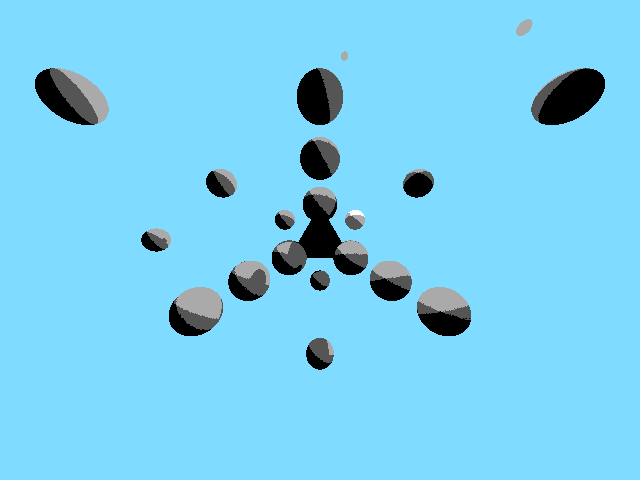
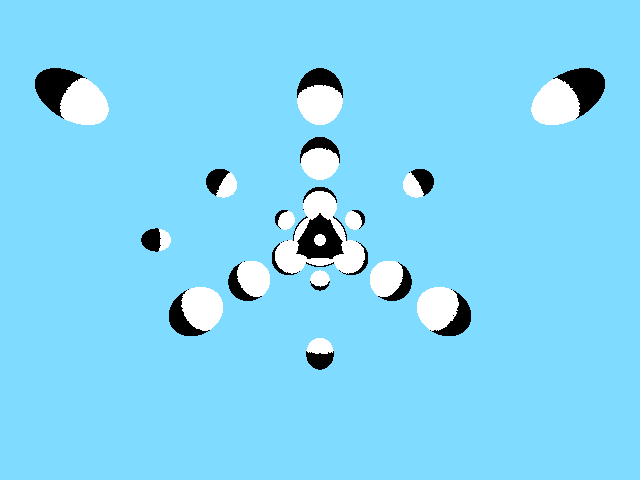
lightproblems to solve

diff --git a/src/SceneGraph.cpp b/src/SceneGraph.cpp
@@ -29,9 +29,10 @@ SceneGraph::SceneGraph(){
 	backgroundColor = myUtil::color(127.0f,219.0f,255.0f);
 	EAmbient = myUtil::color(200,100,50);
 
-	addLightSource(Light(myUtil::PosHom(2,4,-3), CVector<float>(4,1), false, myUtil::color(255,255,0)));
-	addLightSource(Light(myUtil::PosHom(-2,4,-3), CVector<float>(4,1), false, myUtil::color(255,255,0)));
-	addLightSource(Light(myUtil::PosHom(1,1,0), CVector<float>(4,1), false, myUtil::color(255,255,0)));
+//	addLightSource(Light(myUtil::PosHom(2,4,-3), CVector<float>(4,1), false, myUtil::color(255,255,0)));
+//	addLightSource(Light(myUtil::PosHom(-2,4,-3), CVector<float>(4,1), false, myUtil::color(255,255,0)));
+	addLightSource(Light(myUtil::PosHom(1,1,1), CVector<float>(4,1), false, myUtil::color(255,255,0)));
+//	addLightSource(Light(myUtil::PosHom(1,1,0), myUtil::PosHom(1,1,1,0), true, myUtil::color(255,255,0)));
 
 	intenseAmbient = myUtil::color(100,100,100);
 	intenseDiffuse = myUtil::color(100,100,100);
@@ -63,8 +64,8 @@ SceneGraph::SceneGraph(){
 	{CVector<float> pos = myUtil::PosHom(0,0,0);
 //	 pos = inverseCameraMatrix * pos;
 	 CVector<float> col = myUtil::color(255, 255, 255);
-	 Sphere* s = new Sphere(0.4, pos, col);
-	 //objects.push_back(s);
+	 Sphere* s = new Sphere(0.7, pos, col);
+	 objects.push_back(s);
 	 }
 	for(int i = 1; i < 4; i++){
 		Sphere* s;
@@ -103,7 +104,7 @@ SceneGraph::SceneGraph(){
 		Sphere* s = new Sphere(0.2, pos, col);
 		objects.push_back(s);}
 
-		Triangle* tr = new Triangle(myUtil::PosHom(1,0,0), myUtil::PosHom(0,1,0), myUtil::PosHom(0,0,1), myUtil::PosHom(1,1,1), myUtil::color(255,255,0));
+		Triangle* tr = new Triangle(myUtil::PosHom(1,0,0), myUtil::PosHom(0,1,0), myUtil::PosHom(0,0,1), myUtil::PosHom(-1,-1,-1), myUtil::color(255,255,0));
 		objects.push_back(tr);
 	}
 }
@@ -258,19 +259,30 @@ CVector<float> SceneGraph::castRay(CVector<float> origin, CVector<float> directi
 	if(hit){
 		CVector<float> col(3,0);
 		for(int i = 0; i < lightSources.size(); i++){
-			CVector<float> lightDir = lightSources[i].position - bestCollisionPoint;
-			float dist = myUtil::homogenNorm(lightDir);
-			lightDir = myUtil::normalize(lightDir);
-
-			//abnahme der helligkeit mit der distanz
 			CVector<float> EDiffuse = lightSources[i].IDiffuse;
-			if(!(lightSources[i].isDirectionalLight)&&dist != 0)
-				EDiffuse *= (1.0/dist*dist);
 			CVector<float> ESpecular = lightSources[i].ISpecular;
-			if(!(lightSources[i].isDirectionalLight)&&dist != 0)
-				ESpecular *= (1.0/dist*dist);
+			CVector<float> lightDir;
 
-			col += Phong(bestNormal,lightDir,lightVisible(lightSources[i].position,bestCollisionPoint), direction, EDiffuse, ESpecular, n);
+			if(lightSources.at(i).isDirectionalLight){
+				//directional light
+				lightDir = lightSources[i].direction;
+				lightDir = myUtil::normalize(lightDir);
+				col += Phong(bestNormal,lightDir,lightVisible(bestCollisionPoint, lightSources[i].direction, numeric_limits<float>::max()), direction, EDiffuse, ESpecular, n);
+			}else{
+				//point light
+				lightDir = lightSources[i].position - bestCollisionPoint;
+
+				//abnahme der helligkeit mit der distanz
+				float dist = myUtil::homogenNorm(lightDir);
+				if(dist != 0)
+					EDiffuse *= (1.0/dist*dist);
+				if(dist != 0)
+					ESpecular *= (1.0/dist*dist);
+				lightDir = myUtil::normalize(lightDir);
+				col += Phong(bestNormal,lightDir,lightVisible(bestCollisionPoint, lightDir, dist), direction, EDiffuse, ESpecular, n);
+			}
+
+
 		}
 		col * (1.0f/lightSources.size());
 		bestColor = myUtil::elementWiseMulti(bestColor,EAmbient);
@@ -280,20 +292,23 @@ CVector<float> SceneGraph::castRay(CVector<float> origin, CVector<float> directi
 	return bestColor;
 }
 
-bool SceneGraph::lightVisible(CVector<float> light, CVector<float> point){
+bool SceneGraph::lightVisible(CVector<float> point, CVector<float> lightDir, float distToLight){
+//	if(directionalLight)
+//		return true;
 	CVector<float> bestColor = this->backgroundColor;
 	CVector<float> normal;
 	CVector<float> collisionPoint;
 //	CVector<float> bestNormal;
 //	CVector<float> bestCollisionPoint;
-	float t = myUtil::homogenNorm(light - point);//std::numeric_limits<float>::max();
+	float t = distToLight;
 //	cout << "t " << t << endl;
 //	bool hit = false;
 //	cout << " pldir " << point << light << myUtil::normalize(light-point) << endl;
 	for(int i = 0; i < objects.size(); i++){
 		bool collided = false;
 		float distance = myUtil::epsi;
-		CVector<float> color = objects[i]->collision(point, myUtil::normalize(light-point), &collided, &distance, &collisionPoint, &normal, true);
+		CVector<float> color;
+		color = objects[i]->collision(point, myUtil::normalize(lightDir), &collided, &distance, &collisionPoint, &normal, true);
 		if(collided){
 //			cout << "dist " << distance << endl;
 			if(distance < t){
@@ -406,8 +421,15 @@ CVector<float> SceneGraph::castLightRay(CVector<float> origin, CVector<float> di
 		CVector<float> col(3,0);
 		for(int i = 0; i < lightSources.size(); i++){
 			CVector<float> lightDir = lightSources[i].position - bestCollisionPoint;
-			if(lightVisible(lightSources[i].position,bestCollisionPoint)){
-				col += myUtil::color(255,255,255);
+			if(lightSources[i].isDirectionalLight){
+				if(lightVisible(bestCollisionPoint, lightSources[i].direction, numeric_limits<float>::max())){
+					col += myUtil::color(255,255,255);
+				}
+			}else{
+				CVector<float> dir = lightSources[i].position - bestCollisionPoint;
+				if(lightVisible(bestCollisionPoint,myUtil::normalize(dir), myUtil::homogenNorm(dir))){
+					col += myUtil::color(255,255,255);
+				}
 			}
 		}
 		col *= (1.0f/lightSources.size());

diff --git a/src/RayTracer.cpp b/src/RayTracer.cpp
@@ -34,8 +34,12 @@ RayTracer::~RayTracer() {
 }
 
 void RayTracer::debug(){
-	//Q_EMIT(seeTheLightMap());
-	graph->loadObj("sphere.obj", myUtil::color(255,255,0));//kleinbottle
+	Q_EMIT(seeTheLightMap());
+	for(int i = 0; i < 10; i++){
+		cout << i << ": " << HammersleyValue(i,5) << "\t\t";
+		cout << endl;
+	}
+	//graph->loadObj("sphere.obj", myUtil::color(255,255,0));//kleinbottle
 	std::cout << "debug" << std::endl;
 }
 
@@ -54,8 +58,8 @@ void RayTracer::draw(){
 			}
 		}
 		for(int x = 0; x < width; x++){
-			//###########
-			CVector<float> col = Sample(x, y, 'p', 2, 'm');
+			//#############################################
+			CVector<float> col = Sample(x, y, 'n', 2, 'm');
 
 			QColor color = QColor(min((int)col(0),255),min((int)col(1),255),min((int)col(2),255),255);
 			image.setPixel(x,y,color.rgba());
@@ -79,7 +83,7 @@ void RayTracer::seeTheLightMap(){
 //	int y = 334;
 //	int x = 448;
 			CVector<float> dir(4,0);
-			dir(0) = -abs(right) +(((float)x+0.5)/((float)width)) *2*abs(right);
+			dir(0) =-abs(right) +(((float)x+0.5)/((float)width)) *2*abs(right);
 			dir(1) = abs(bottom)-(((float)y+0.5)/((float)height))*2*abs(bottom);
 			dir(2) = -near;
 			dir = cameraMatrix * dir;
@@ -94,7 +98,7 @@ void RayTracer::seeTheLightMap(){
 	Q_EMIT(repaint());
 }
 
-CVector<float> RayTracer::Sample(int x, int y, char kindOfSampling, int sampleCount, char kindOfReconstruction, float minDist){
+CVector<float> RayTracer::Sample(int x, int y, char kindOfSampling, int sampleCount, char kindOfReconstruction, float minDist, int p1, int p2){
 	CVector<float> origin = myUtil::PosHom(0,0,0);
 	origin = cameraMatrix * origin;
 	vector< CVector<float> > col(sampleCount*sampleCount);
@@ -158,8 +162,19 @@ CVector<float> RayTracer::Sample(int x, int y, char kindOfSampling, int sampleCo
 			}
 			return Reconstruct(col, kindOfReconstruction);
 			break;
+		case 'h':
+			//halton sampling
+			for(int i = 0; i < sampleCount*sampleCount; i++){
+				xPix = ((float)x) + HammersleyValue(i,p1);//value between 0 and 1
+				yPix = ((float)y) + HammersleyValue(i,p2);
+				dir = myUtil::normalize(cameraMatrix * myUtil::PosHom(-abs(right) +((xPix+0.5)/((float)width)) *2*abs(right), abs(bottom)-((yPix+0.5)/((float)height))*2*abs(bottom), -near, 0));
+				pixelVal = graph->castRay(origin, dir);
+				col.at(i) = myUtil::Pos5D(pixelVal(0), pixelVal(1), pixelVal(2), xPix, yPix);
+			}
+			return Reconstruct(col, kindOfReconstruction);
+			break;
 		default:
-			cerr << "kindOfSampling: \'n\' = center of Pixel(standart)\n                \'r\' = random\n                \'s\' = stratified\n                \'p\' = poisson\n                \'h\' = hammersley" << endl;
+			cerr << "kindOfSampling: \'n\' = center of Pixel(standart)\n                \'r\' = random\n                \'s\' = stratified\n                \'p\' = poisson\n                \'h\' = halton" << endl;
 			break;
 	}
 	return CVector<float>(3,0);
@@ -207,3 +222,15 @@ float RayTracer::gauss(float dist){
 	return (1.0/sqrt(2.0*3.14159))*exp(-0.5*dist);
 }
 
+float RayTracer::HammersleyValue(int k, int p){
+	int p_prime = p;
+	int k_prime = k;
+	float phi = 0;
+	while(k_prime > 0){
+		float a = k_prime % p;
+		phi += a/p_prime;
+		k_prime /= p;
+		p_prime *= p;
+	}
+	return phi;
+}

diff --git a/src/RayTracer.h b/src/RayTracer.h
@@ -39,9 +39,10 @@ private:
 	static const int height = 480;
 	QImage image;
 	CMatrix<float> cameraMatrix;
-	CVector<float> Sample(int x, int y, char kindOfSampling, int sampleCount, char kindOfReconstruction, float minDist = 0.1);
+	CVector<float> Sample(int x, int y, char kindOfSampling, int sampleCount, char kindOfReconstruction, float minDist = 0.1, int p1 = 3, int p2 = 5);
 	CVector<float> Reconstruct(std::vector< CVector<float> > col, char kindOfReconstruction);
 	float gauss(float dist);
+	float HammersleyValue(int k, int p);
 };
 
 #endif /* RAYTRACER_H_ */

diff --git a/src/SceneGraph.h b/src/SceneGraph.h
@@ -39,7 +39,7 @@ private:
 	CVector<float> EAmbient;
 	float n;
 	CVector<float> Phong(CVector<float> normal, CVector<float> lightdirection, bool seeTheLight, CVector<float> viewingRay, CVector<float> EDiffuse, CVector<float> ESpecular, float n);
-	bool lightVisible(CVector<float> light, CVector<float> point);
+	bool lightVisible(CVector<float> point, CVector<float> lightDir, float distToLight);
 	CMatrix<float> InverseCameraMatrix(CVector<float> cameraPos, CVector<float> lookAt, CVector<float> up);
 
 	//depricated

diff --git a/src/Triangle.cpp b/src/Triangle.cpp
@@ -42,8 +42,10 @@ Triangle::~Triangle() {
 }
 
 CVector<float> Triangle::collision(CVector<float> origin, CVector<float> direction, bool* collided, float* t_value, CVector<float>* collisionpoint, CVector<float>* _normal, bool isLightRay){
+	direction = myUtil::normalize(direction);
 	if((direction*normal) == 0){ //ray and normal orthogonal -> no hit
 		*collided = false;
+		cout << "90°" << endl;
 		return myUtil::color(0,0,0);
 	}
 

diff --git a/src/Light.h b/src/Light.h
@@ -17,11 +17,11 @@ public:
 	Light(CVector<float> _position, CVector<float> _direction, bool _directionalLight, CVector<float> _color, CVector<float> _IDiffuse, CVector<float> _ISpecular);
 	virtual ~Light();
 	CVector<float> position;
+	CVector<float> direction;
 	CVector<float> IDiffuse;
 	CVector<float> ISpecular;
 	bool isDirectionalLight;
 private:
-	CVector<float> direction;
 	CVector<float> color;
 };
 
